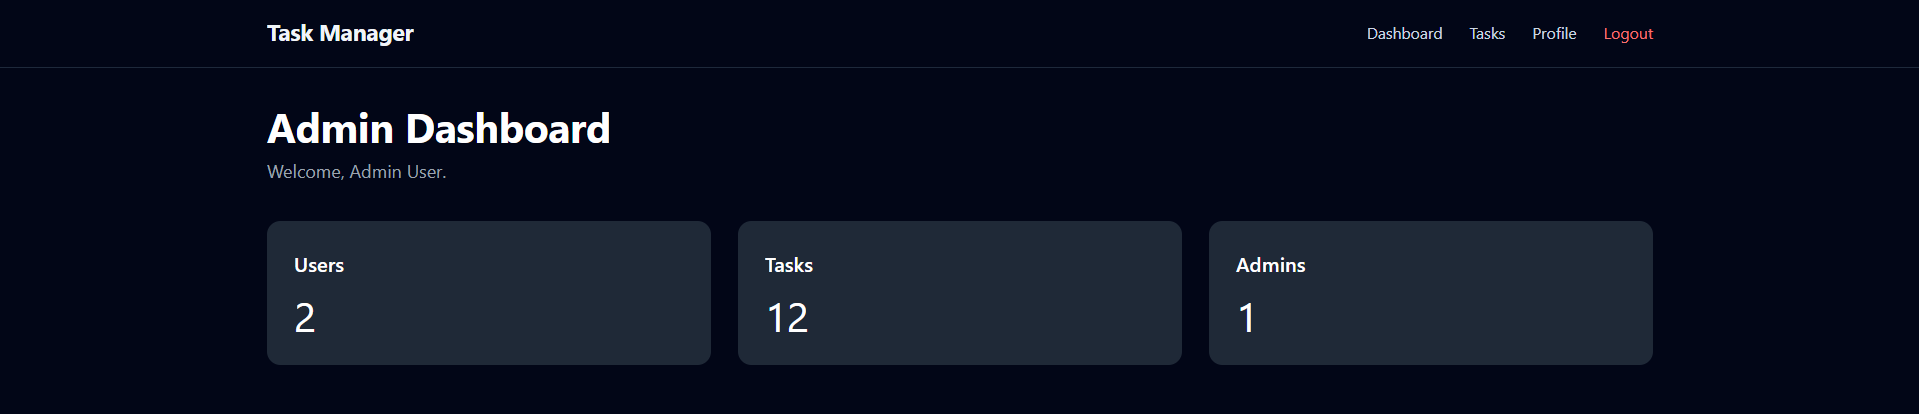
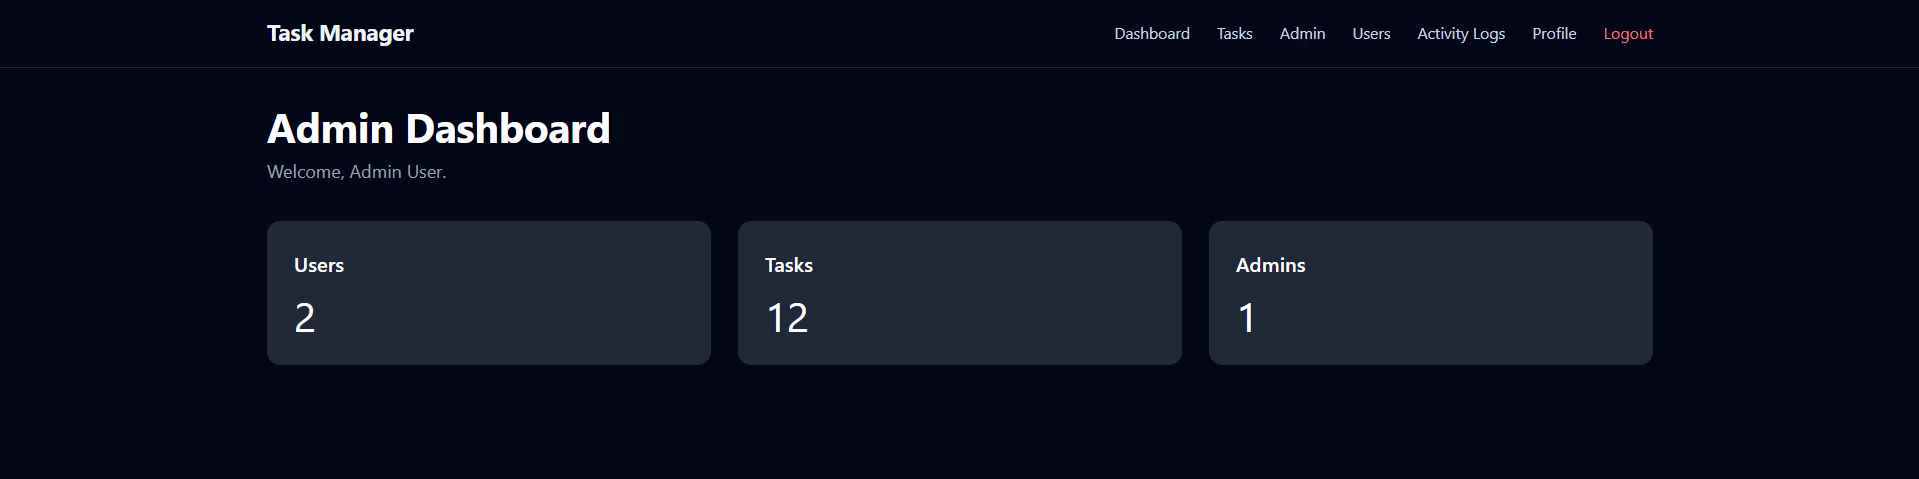
feat: add admin activity logs page

diff --git a/resources/views/livewire/pages/admin/activity-logs/index.blade.php b/resources/views/livewire/pages/admin/activity-logs/index.blade.php
@@ -1,0 +1,75 @@
+<div class="max-w-7xl mx-auto px-6 py-8 text-white">
+
+    <div class="flex items-center justify-between mb-6">
+        <div>
+            <h1 class="text-3xl font-bold">Activity Logs</h1>
+            <p class="text-gray-400">
+                Monitor system activities performed by users.
+            </p>
+        </div>
+    </div>
+
+    <div class="mb-6">
+        <input
+            type="text"
+            wire:model.live="search"
+            placeholder="Search activity..."
+            class="w-full md:w-96 rounded-lg bg-gray-800 border border-gray-700 text-white px-4 py-2"
+        >
+    </div>
+
+    <div class="overflow-hidden rounded-xl border border-gray-800 bg-gray-900">
+        <table class="min-w-full">
+            <thead class="bg-gray-800">
+                <tr>
+                    <th class="px-6 py-3 text-left">User</th>
+                    <th class="px-6 py-3 text-left">Activity</th>
+                    <th class="px-6 py-3 text-left">Subject</th>
+                    <th class="px-6 py-3 text-left">Date</th>
+                </tr>
+            </thead>
+
+            <tbody>
+
+                @forelse($activities as $activity)
+
+                    <tr class="border-t border-gray-800">
+
+                        <td class="px-6 py-4">
+                            {{ $activity->causer?->name ?? 'System' }}
+                        </td>
+
+                        <td class="px-6 py-4">
+                            {{ $activity->description }}
+                        </td>
+
+                        <td class="px-6 py-4">
+                            {{ class_basename($activity->subject_type) }}
+                        </td>
+
+                        <td class="px-6 py-4">
+                            {{ $activity->created_at->format('M d, Y h:i A') }}
+                        </td>
+
+                    </tr>
+
+                @empty
+
+                    <tr>
+                        <td colspan="4" class="px-6 py-8 text-center text-gray-400">
+                            No activity logs found.
+                        </td>
+                    </tr>
+
+                @endforelse
+
+            </tbody>
+
+        </table>
+    </div>
+
+    <div class="mt-6">
+        {{ $activities->links() }}
+    </div>
+
+</div>

diff --git a/app/Livewire/Pages/Admin/ActivityLogs/Index.php b/app/Livewire/Pages/Admin/ActivityLogs/Index.php
@@ -1,0 +1,33 @@
+<?php
+
+namespace App\Livewire\Pages\Admin\ActivityLogs;
+
+use Livewire\Component;
+use Livewire\WithPagination;
+use Spatie\Activitylog\Models\Activity;
+
+class Index extends Component
+{
+    use WithPagination;
+
+    public string $search = '';
+
+    public function updatedSearch(): void
+    {
+        $this->resetPage();
+    }
+
+    public function render()
+    {
+        $activities = Activity::with(['causer', 'subject'])
+            ->when($this->search, function ($query) {
+                $query->where('description', 'like', '%' . $this->search . '%');
+            })
+            ->latest()
+            ->paginate(10);
+
+        return view('livewire.pages.admin.activity-logs.index', [
+            'activities' => $activities,
+        ]);
+    }
+}

diff --git a/routes/web.php b/routes/web.php
@@ -2,16 +2,25 @@
 
 use Illuminate\Http\Request;
 use Illuminate\Support\Facades\Auth;
+use Illuminate\Support\Facades\Route;
 use App\Livewire\Pages\Tasks\Index as TasksIndex;
 use App\Livewire\Pages\Admin\Dashboard as AdminDashboard;
 use App\Livewire\Pages\Admin\Users\Index as AdminUsersIndex;
-use Illuminate\Support\Facades\Route;
+use App\Livewire\Pages\Admin\ActivityLogs\Index as AdminActivityLogsIndex;
 
 Route::view('/', 'welcome');
 
 Route::get('/dashboard', TasksIndex::class)
     ->middleware(['auth', 'verified'])
     ->name('dashboard');
+
+Route::get('/tasks', TasksIndex::class)
+    ->middleware(['auth', 'verified'])
+    ->name('tasks.index');
+
+Route::view('profile', 'profile')
+    ->middleware(['auth'])
+    ->name('profile');
 
 Route::get('/admin', AdminDashboard::class)
     ->middleware(['auth', 'role:admin'])
@@ -21,14 +30,10 @@ Route::get('/admin/users', AdminUsersIndex::class)
     ->middleware(['auth', 'role:admin'])
     ->name('admin.users.index');
 
-Route::view('profile', 'profile')
-    ->middleware(['auth'])
-    ->name('profile');
+Route::get('/admin/activity-logs', AdminActivityLogsIndex::class)
+    ->middleware(['auth', 'role:admin'])
+    ->name('admin.activity-logs.index');
 
-Route::get('/tasks', TasksIndex::class)
-    ->middleware(['auth', 'verified'])
-    ->name('tasks.index');
-    
 Route::post('/logout', function (Request $request) {
     Auth::guard('web')->logout();
 

diff --git a/resources/views/components/layouts/app.blade.php b/resources/views/components/layouts/app.blade.php
@@ -26,6 +26,20 @@
                         Tasks
                     </a>
 
+                    @role('admin')
+                        <a href="{{ route('admin.dashboard') }}" class="text-slate-300 hover:text-white">
+                            Admin
+                        </a>
+
+                        <a href="{{ route('admin.users.index') }}" class="text-slate-300 hover:text-white">
+                            Users
+                        </a>
+
+                        <a href="{{ route('admin.activity-logs.index') }}" class="text-slate-300 hover:text-white">
+                            Activity Logs
+                        </a>
+                    @endrole
+
                     <a href="{{ route('profile') }}" class="text-slate-300 hover:text-white">
                         Profile
                     </a>

diff --git a/resources/views/livewire/pages/tasks/index.blade.php b/resources/views/livewire/pages/tasks/index.blade.php
@@ -40,7 +40,6 @@
         </div>
 
         @include('livewire.pages.tasks._create-modal')
-        @include('livewire.pages.tasks._edit-modal')
 
     </div>
 </div>